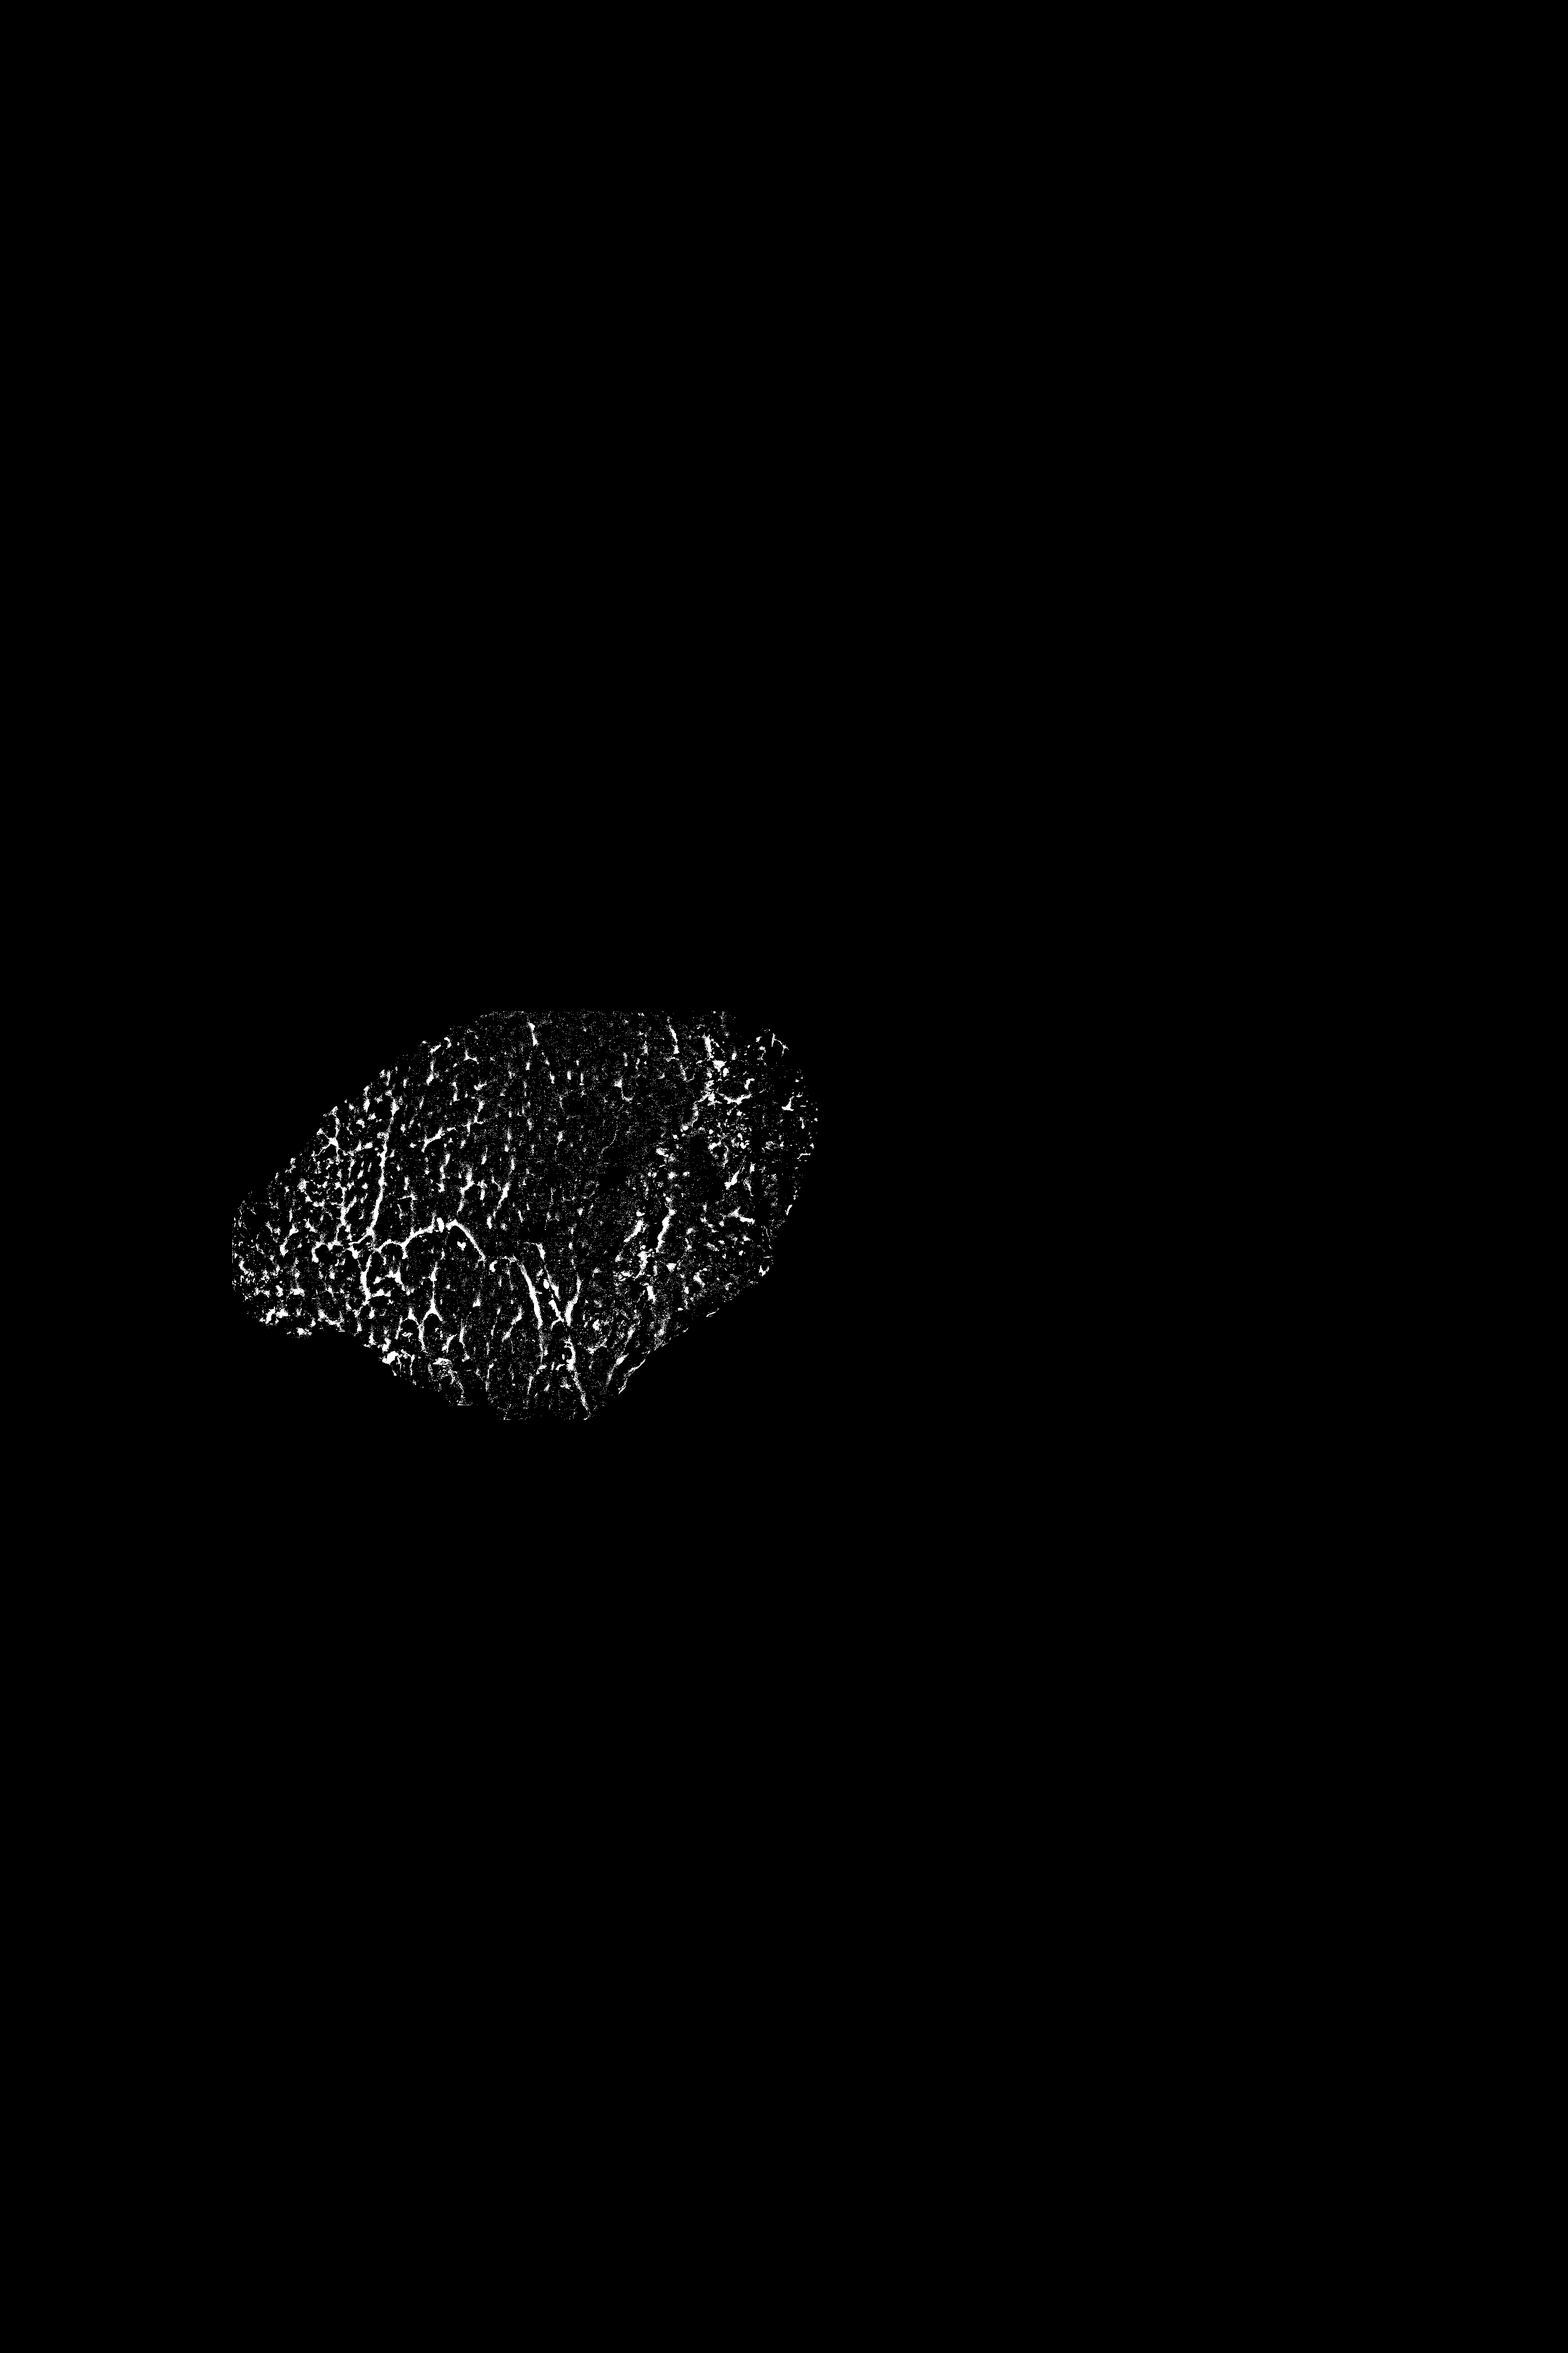
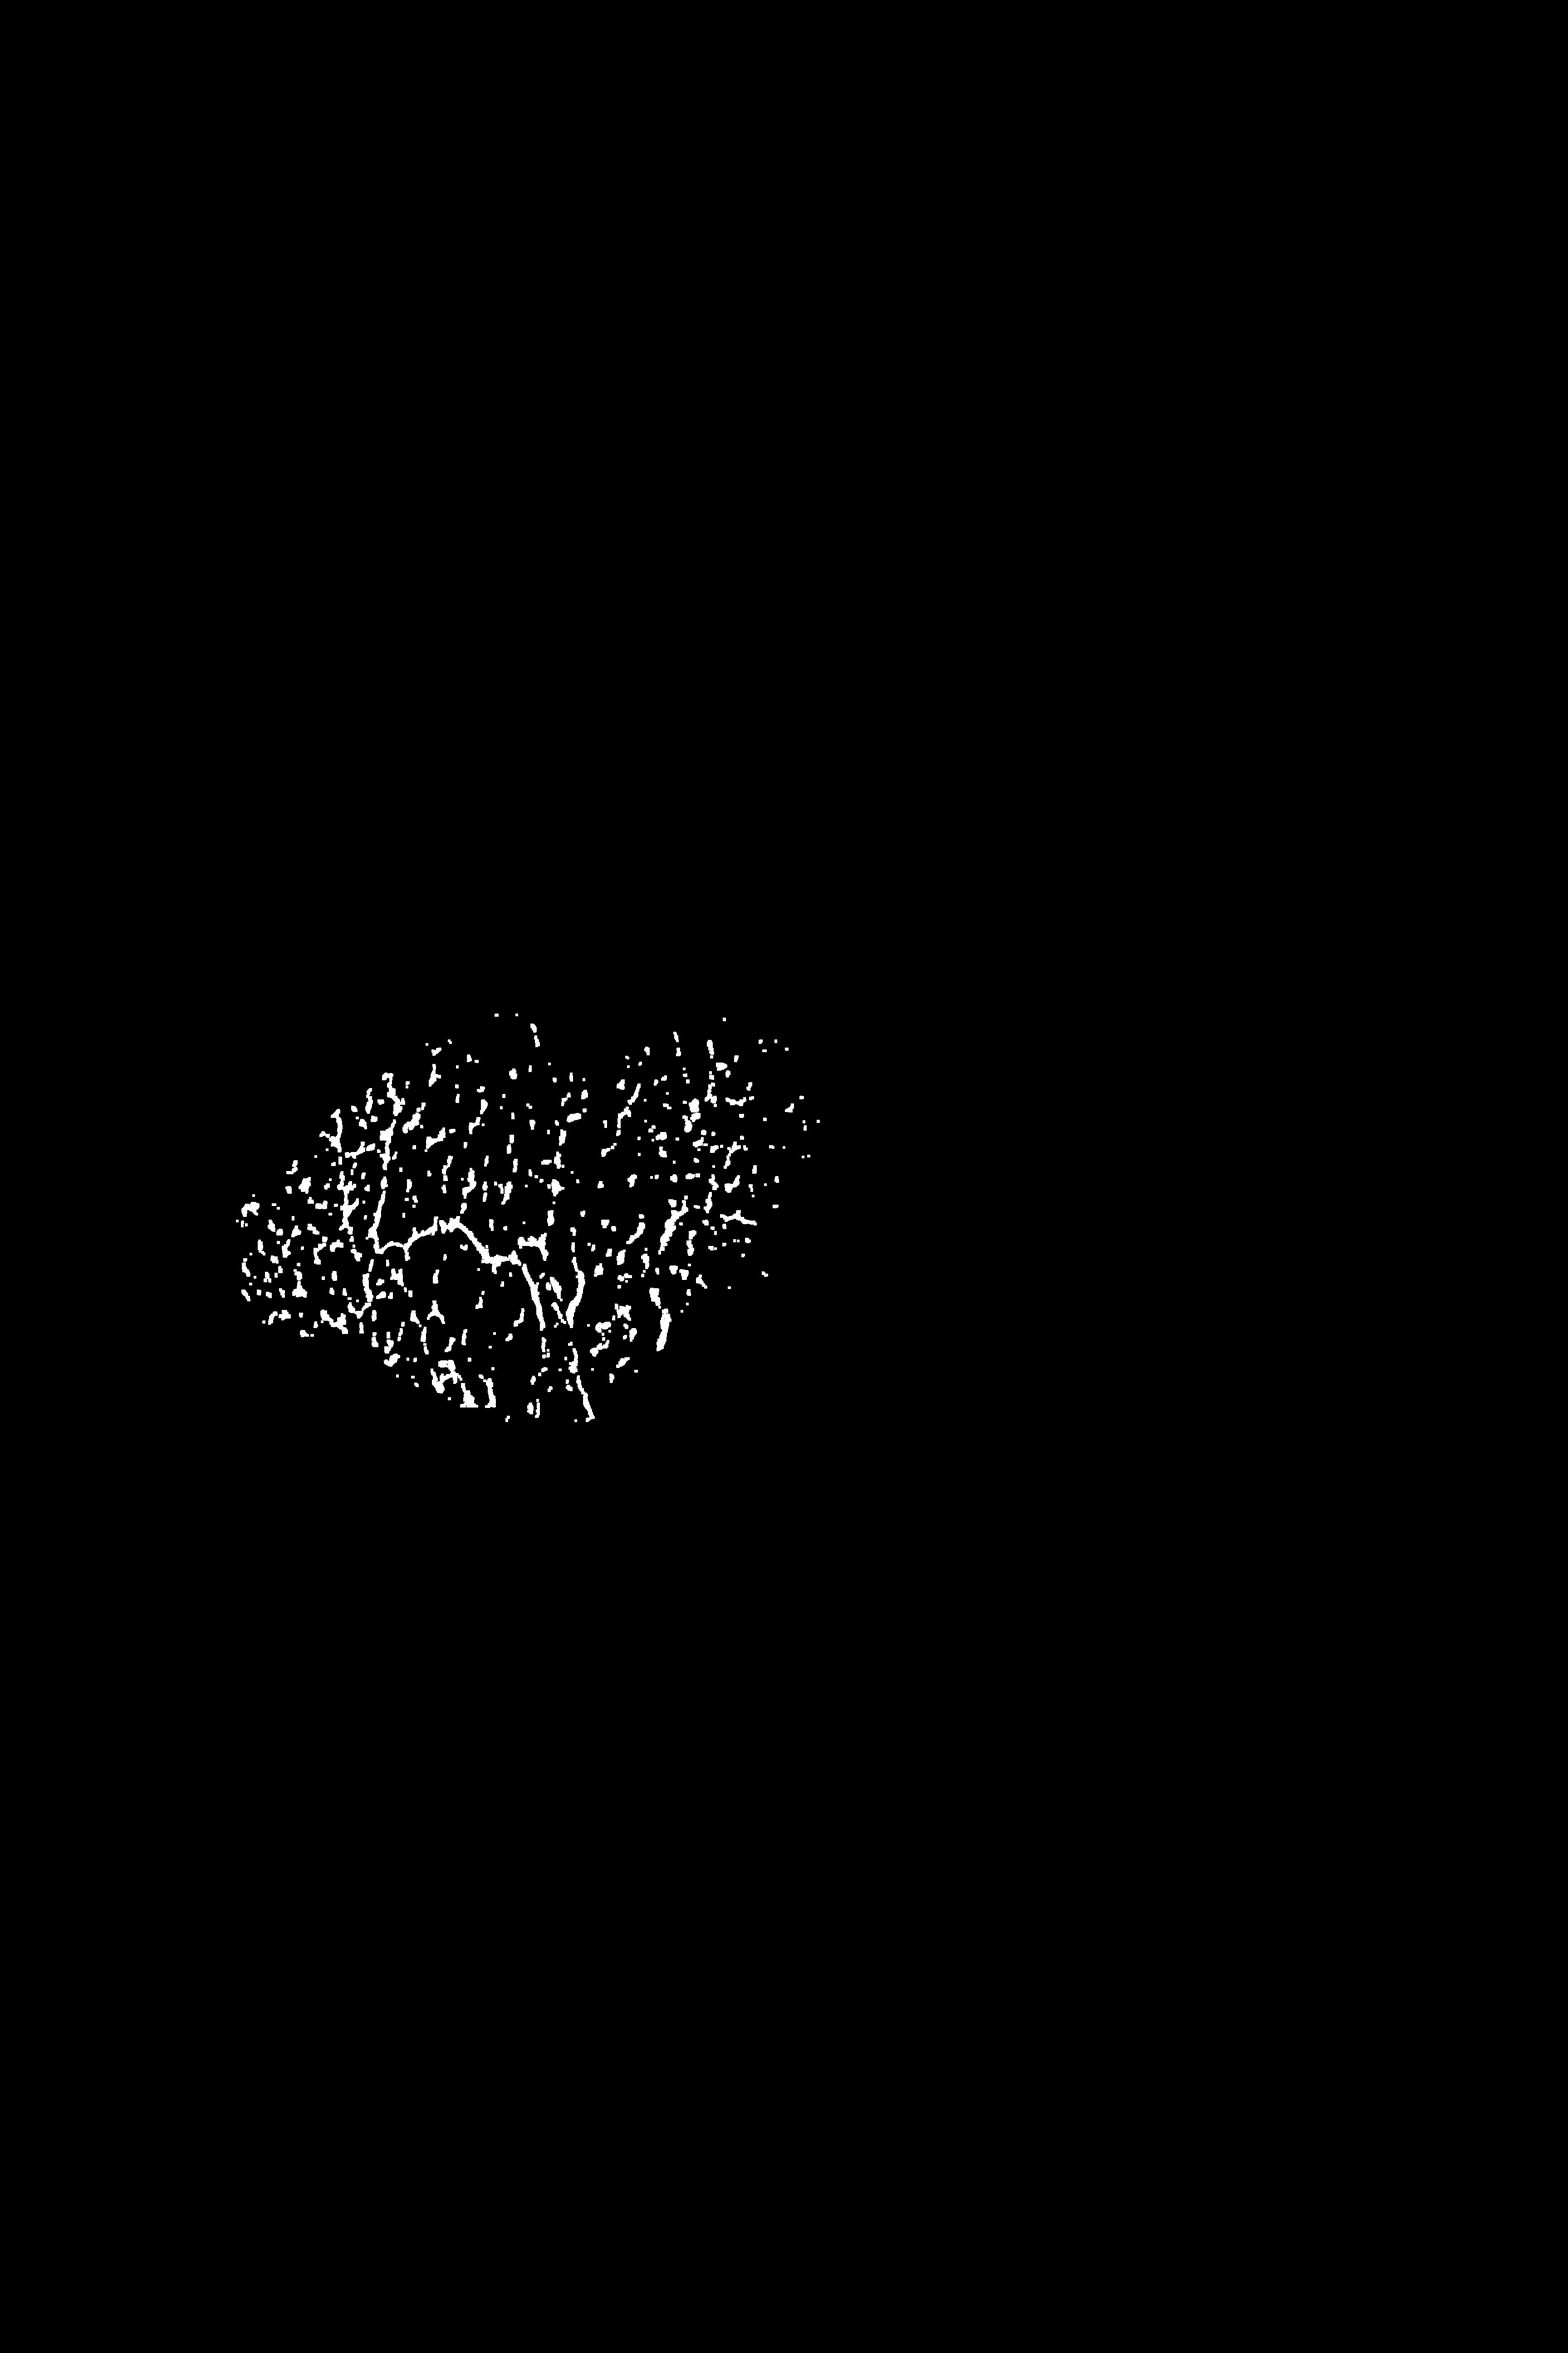
Add clean specks function to remove noisy specks from the image.

Changed region(s): [[0.1562, 0.4375, 0.5, 0.5938]]

diff --git a/src/utils/marbling.py b/src/utils/marbling.py
@@ -44,7 +44,7 @@ def gaussian_threshold(image):
     binary_image = cv2.adaptiveThreshold(
         gray_image, 255, 
         cv2.ADAPTIVE_THRESH_GAUSSIAN_C,
-        cv2.THRESH_BINARY, 81, -36
+        cv2.THRESH_BINARY, 81, -1
     )
     binary_image = cv2.cvtColor(binary_image, cv2.COLOR_GRAY2BGR)
     return binary_image
@@ -71,15 +71,27 @@ def extract_marbling(enhanced_image, muscle_mask):
     
     # Reduce the amount of blurring and morphological processing to preserve details
     marbling_mask = cv2.GaussianBlur(marbling_mask, (1, 1), 0)
-    kernel = np.ones((1, 1), np.uint8)
-    marbling_mask = cv2.morphologyEx(marbling_mask, cv2.MORPH_OPEN, kernel, iterations=1)
-    
-    marbling_mak = contour_detection(marbling_mask)
+    marbling_mask = contour_detection(marbling_mask)
+    marbling_mask = clean_specks(marbling_mask)
+    return marbling_mask
+
+def clean_specks(marbling_mask):
+    """
+    Removes noisy speckles of detected fat from the image
+    Ensures only significant areas remain.
+    """
+    kernel = np.ones((2, 2), np.uint8)    
+    marbling_mask = cv2.morphologyEx(marbling_mask, cv2.MORPH_OPEN, kernel, iterations=5)
     return marbling_mask
 
 def contour_detection(marbling_mask):
+    """
+    Finds the contours composing the mask. 
+    The 0th contour is the first one found (tends to be the one outlining the mask).
+    Draws a black contour line to mute the edge of the image (which are incorrectly white).
+    """
     contours, hierarchy = cv2.findContours(marbling_mask, cv2.RETR_TREE, cv2.CHAIN_APPROX_NONE)
-    contour_mask = cv2.drawContours(marbling_mask, contours, 0, color=(0,0,0), thickness=30)
+    contour_mask = cv2.drawContours(marbling_mask, contours, 0, color=(0,0,0), thickness=30)  # Change thickness in order to adjust the amount of white outline on the mask.
     return contour_mask
 
 def convert_fat_color(image):
